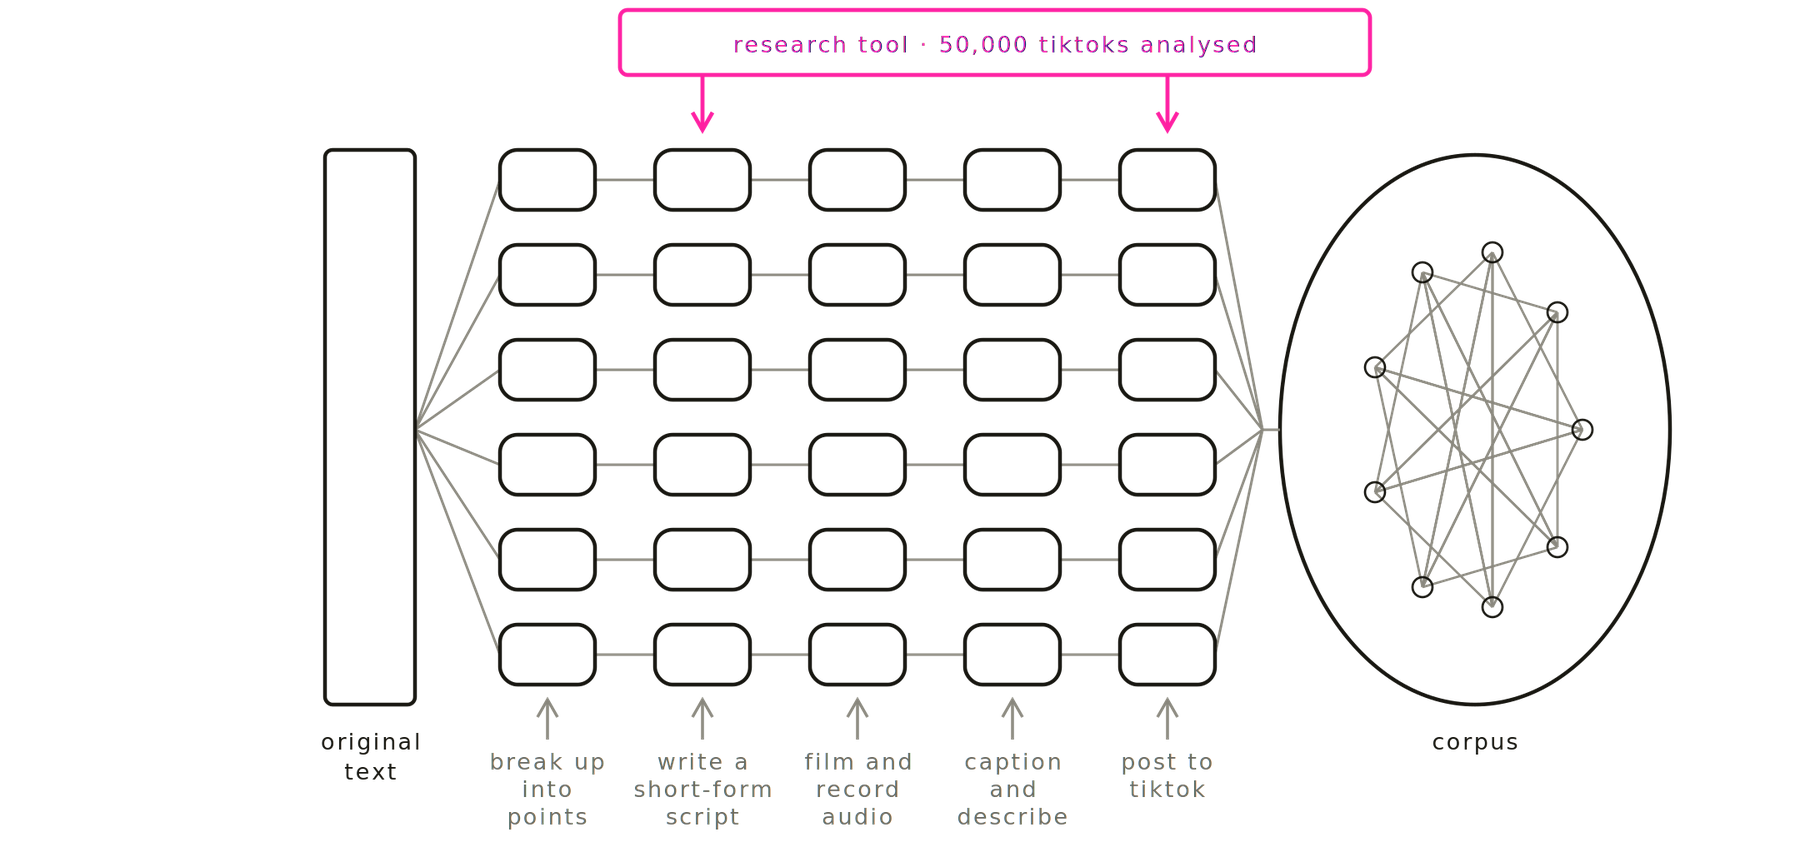
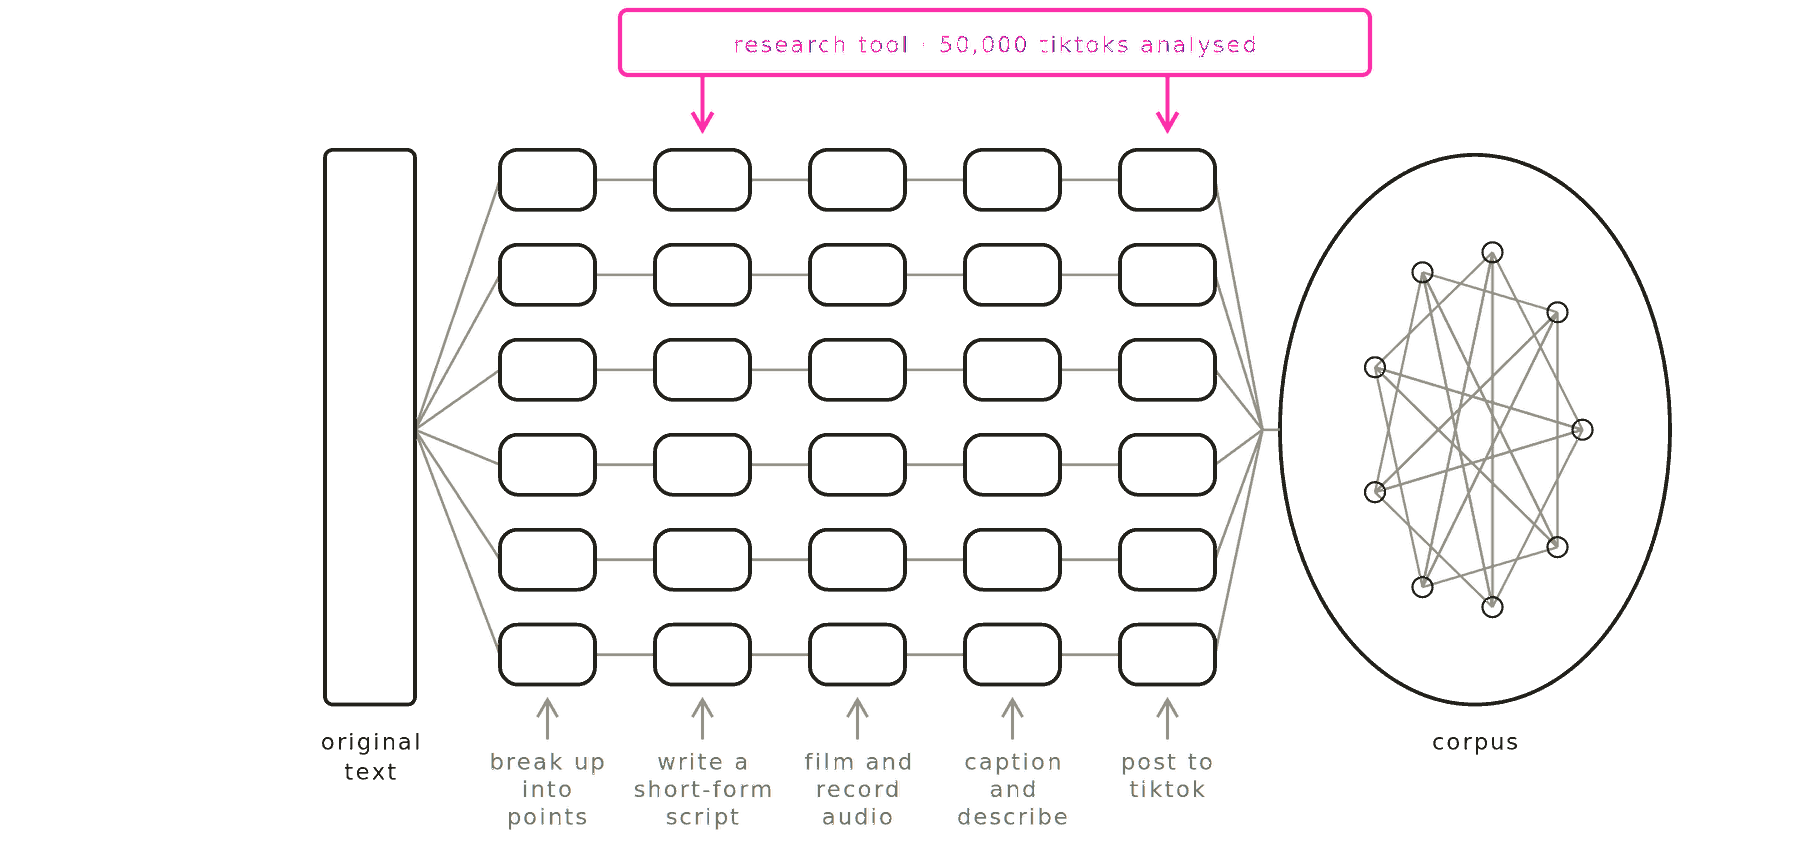
Add files via upload

Changed region(s): [[0.5289, 0.0302, 0.6222, 0.0603], [0.4044, 0.0302, 0.4978, 0.0603], [0.6533, 0.0302, 0.6844, 0.0603]]

diff --git a/index.html b/index.html
@@ -646,7 +646,7 @@
         <figure class="work-hero">
           <div class="filmbox" data-yt="Zq-tiFJuyPw">
             <div class="film-stage">
-              <img class="film-poster" src="film-poster.jpg" alt="A man in a polo shirt and chinos walks toward a terraced house, seen through an augmented-reality overlay: a target reticle, a rising damage counter, a badge icon, and a translucent horse rearing beside the doorway." />
+              <img class="film-poster" loading="lazy" src="film-poster.jpg" alt="A man in a polo shirt and chinos walks toward a terraced house, seen through an augmented-reality overlay: a target reticle, a rising damage counter, a badge icon, and a translucent horse rearing beside the doorway." />
               <button class="film-play" type="button" aria-label="play film">▶</button>
               <div class="film-mount"></div>
             </div>
@@ -672,7 +672,7 @@
         </header>
 
         <figure class="work-hero">
-          <img class="work-photo" src="goon-hero.jpg" alt="The Goon Guide: a figure in a dark suit with a glowing image of the Earth in place of a head, holding an ice cream cone against a black background." />
+          <img class="work-photo" loading="lazy" src="goon-hero.jpg" alt="The Goon Guide: a figure in a dark suit with a glowing image of the Earth in place of a head, holding an ice cream cone against a black background." />
         </figure>
 
         <div class="work-body">
@@ -792,7 +792,7 @@
         </header>
 
         <figure class="work-hero">
-          <img class="work-photo" src="ignorance-hero.jpg" alt="A roast dinner viewed from directly above: a taco shell standing in for Yorkshire pudding, sliced banana for parsnip, raisins in gravy for cranberry sauce, and a rolled slice of ham and fennel for the joint." />
+          <img class="work-photo" loading="lazy" src="ignorance-hero.jpg" alt="A roast dinner viewed from directly above: a taco shell standing in for Yorkshire pudding, sliced banana for parsnip, raisins in gravy for cranberry sauce, and a rolled slice of ham and fennel for the joint." />
         </figure>
 
         <div class="work-body">
